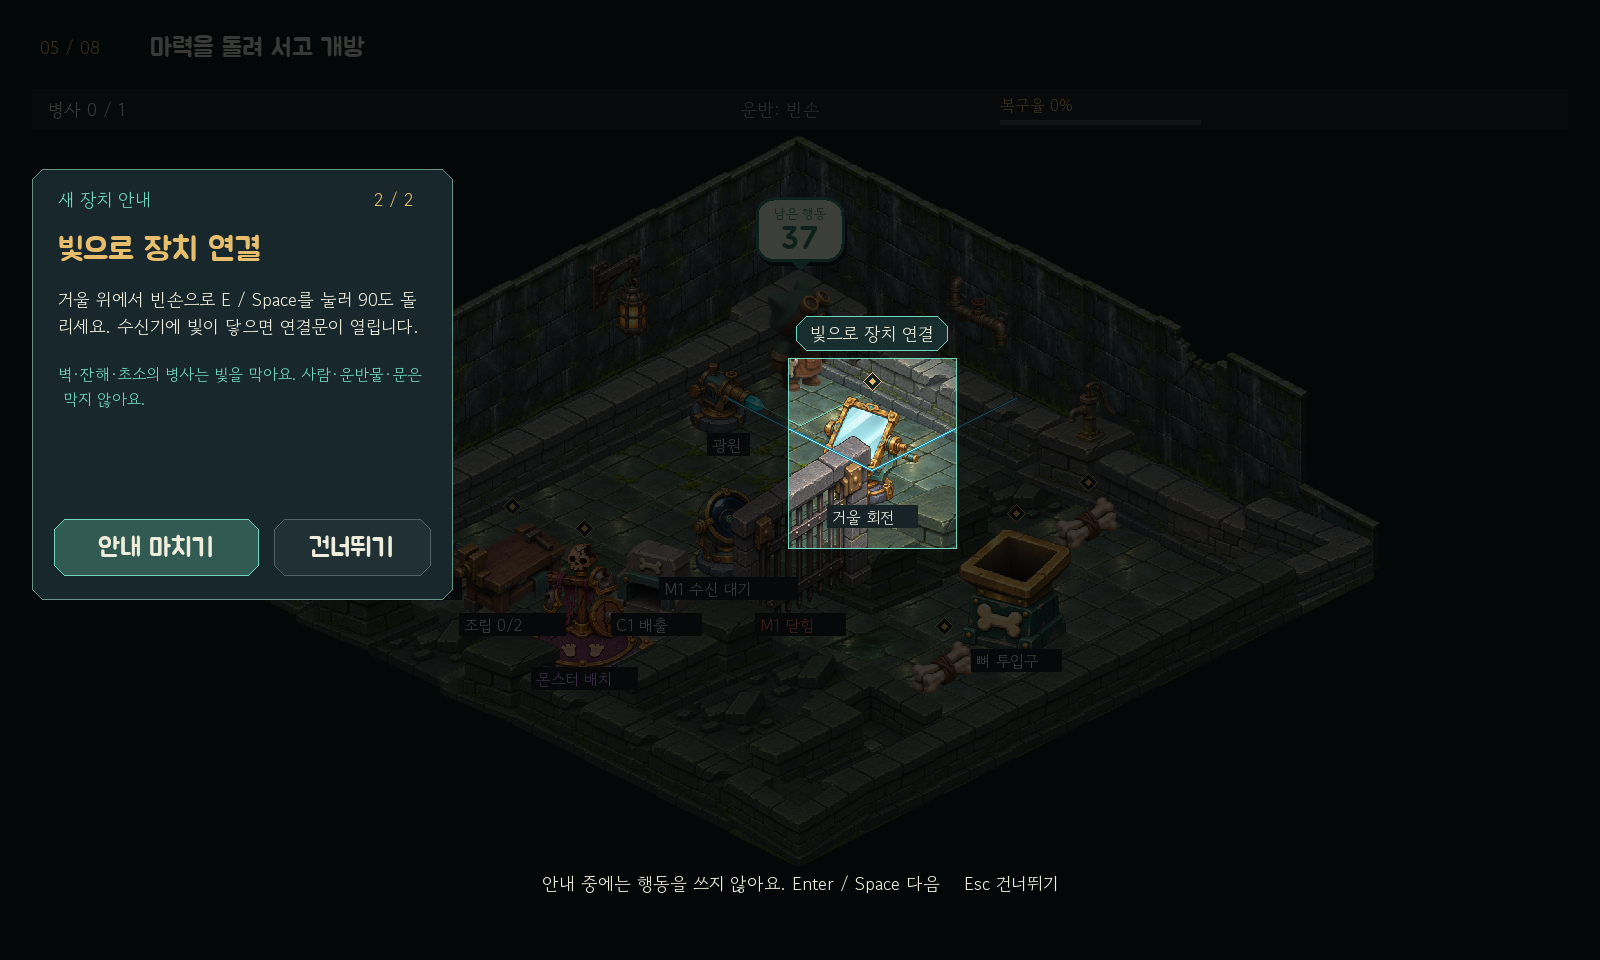
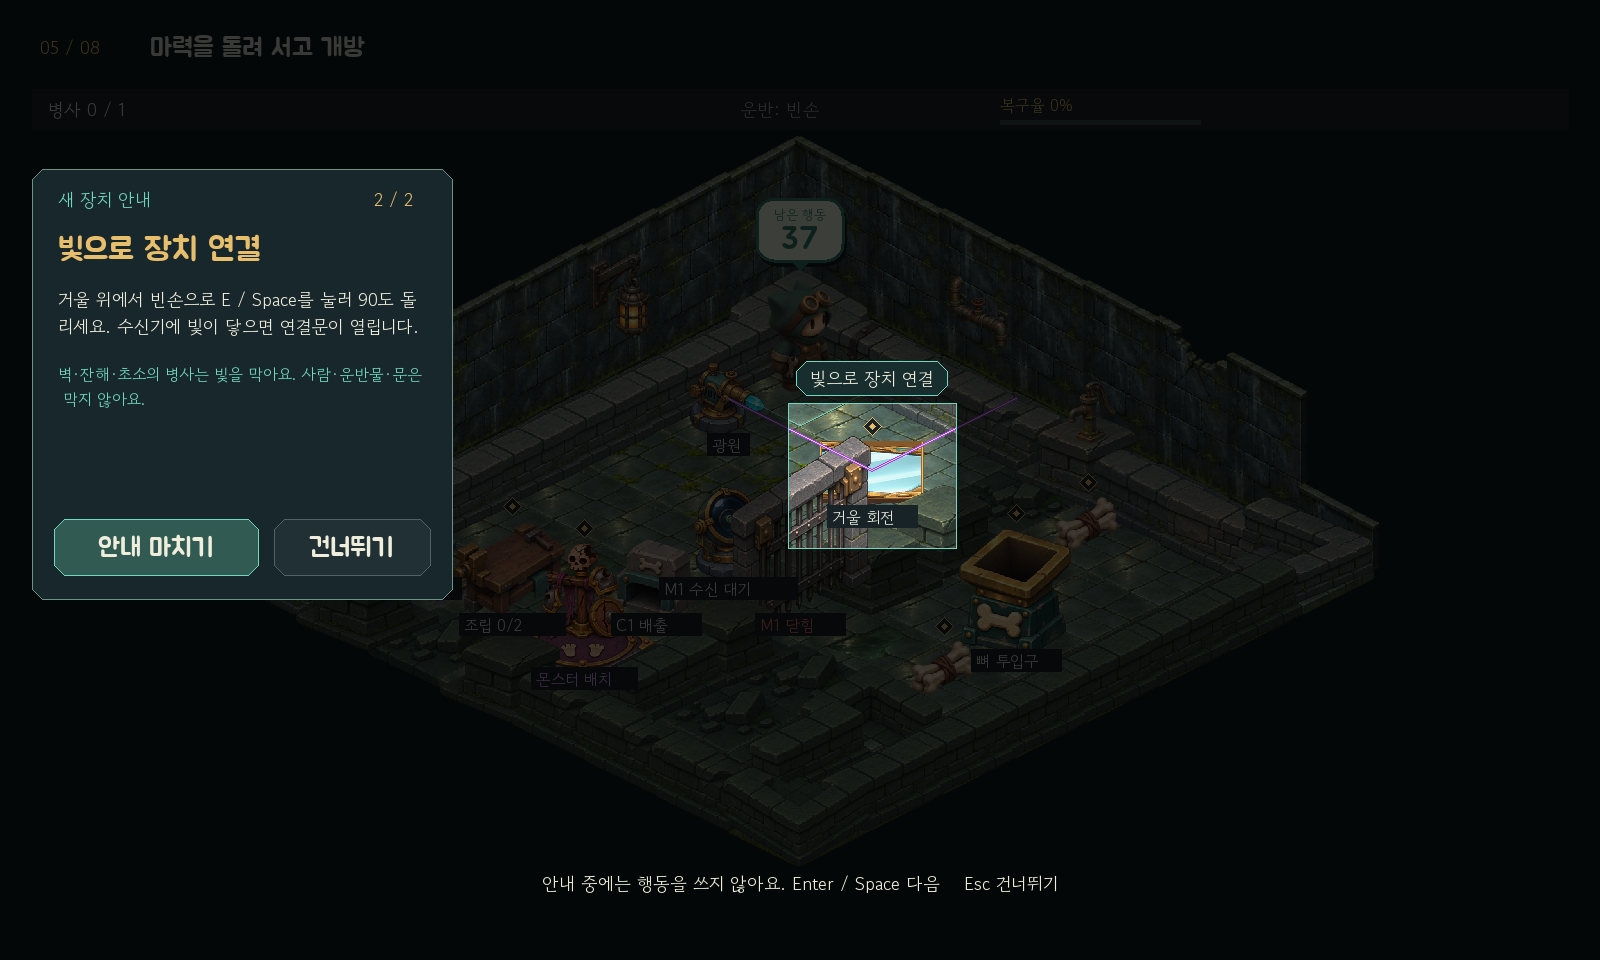
fix: 거울 표시 축과 광선 반사 지점을 일치시킴

Changed region(s): [[0.4688, 0.3125, 0.625, 0.5312]]

diff --git a/game/art.py b/game/art.py
@@ -6,12 +6,15 @@ from math import floor
 from pathlib import Path
 
 import pico2d.pico2d as p
+from game.mechanics import mirror_axis
 
 
 ART_ROOT = Path(__file__).resolve().parents[1] / "assets" / "art_v1"
 MAP_ROOT = ART_ROOT.parent / "map_pack_v1"
 WALL_ROOT = ART_ROOT.parent / "wall_pack_v1"
 GATE_ROOT = ART_ROOT.parent / "gate_pack_v1"
+MAGIC_BEAM_HEIGHT = 45
+MIRROR_BASE_TOP = 174
 
 
 class Art:
@@ -127,6 +130,14 @@ class Art:
         offset = (point[0] - sx) / scale
         x = floor(entry["anchor"]["x"] + (-offset if flip else offset))
         y = floor(entry["anchor"]["y"] - (point[1] - sy) / (scale * height_scale))
+        if name == "mirror":
+            left, bottom, right, top = self.mirror_panel(sx, sy, scale, flip)
+            if left <= point[0] <= right and bottom - 6 * scale <= point[1] <= top:
+                return True
+            # 받침대는 회전하지 않는다. 잘라낸 옛 거울판은 클릭을 가로채지 않는다.
+            x = floor(entry["anchor"]["x"] + offset)
+            if y < MIRROR_BASE_TOP:
+                return False
         if not (0 <= x < entry["width"] and 0 <= y < entry["height"]):
             return False
         atlas = self.manifest["atlases"][entry["atlas"]]
@@ -139,6 +150,12 @@ class Art:
         """투명 여백을 제외한 표시 영역. 물체를 클릭하면 발이 놓인 칸을 고른다."""
         entry = self.manifest["sprites"][name]
         rect, anchor = entry["content_rect"], entry["anchor"]
+        if name == "mirror":
+            left, bottom, right, top = self.mirror_panel(sx, sy, scale, flip)
+            return (min(left, sx + (rect["left"] - anchor["x"]) * scale),
+                    min(bottom - 6 * scale, sy + (anchor["y"] - rect["top"] - rect["height"]) * scale),
+                    max(right, sx + (rect["left"] + rect["width"] - anchor["x"]) * scale),
+                    max(top, sy + (anchor["y"] - MIRROR_BASE_TOP) * scale))
         left = (rect["left"] - anchor["x"]) * scale
         right = left + rect["width"] * scale
         if flip:
@@ -242,9 +259,66 @@ class Art:
         return (197 <= x < 326 and top <= y < bottom - lift
                 and self.hit_test("gate_closed", sx, sy + lift * scale, scale, point, flip))
 
+    @staticmethod
+    def mirror_segment(sx, sy, scale, turned):
+        """거울의 실제 반사축을 2:1 등각 화면에 투영한다."""
+        tx, ty = mirror_axis(turned)
+        dx, dy = (tx - ty) * 112 * .36 * scale, -(tx + ty) * 56 * .36 * scale
+        cy = sy + MAGIC_BEAM_HEIGHT * scale
+        return (sx - dx, cy - dy), (sx + dx, cy + dy)
+
+    @classmethod
+    def mirror_panel(cls, sx, sy, scale, turned):
+        (ax, ay), (bx, by) = cls.mirror_segment(sx, sy, scale, turned)
+        # 세운 양면 거울의 높이와 옆면 두께. 회전한 면은 카메라에서 옆날로 보인다.
+        rx, ry = (6 * scale, 45 * scale) if turned else (0, 45 * scale)
+        return min(ax, bx) - rx, min(ay, by) - ry, max(ax, bx) + rx, max(ay, by) + ry
+
+    def draw_mirror(self, sx, sy, scale, turned=False):
+        """황동 받침대 위에 반사축과 일치하는 낮은 양면 거울판을 그린다."""
+        entry = self.manifest["sprites"]["mirror"]
+        anchor = entry["anchor"]
+        left, bottom, width, height = entry["clip_rect_pico2d"]
+        base_height = height - MIRROR_BASE_TOP
+        self.atlases[entry["atlas"]].clip_draw(
+            left, bottom, width, base_height,
+            sx + (width / 2 - anchor["x"]) * scale,
+            sy + (anchor["y"] - MIRROR_BASE_TOP - base_height / 2) * scale,
+            width * scale, base_height * scale)
+        left, bottom, right, top = self.mirror_panel(sx, sy, scale, turned)
+
+        p.draw_rectangle(left, bottom - 6 * scale, right, top - 6 * scale, 69, 46, 31, filled=True)
+        p.draw_rectangle(left, bottom, right, top, 133, 89, 44, filled=True)
+        # 원본의 황동 테두리·유리 면을 실제 투영 사각형에 매핑한다. PNG는 수정하지 않는다.
+        uv = ((163, 83), (170, 85), (141, 151), (134, 149)) if turned else (
+            (92, 49), (177, 75), (137, 159), (53, 135))
+        positions = ((left, top), (right, top), (right, bottom), (left, bottom))
+        atlas = self.manifest["atlases"][entry["atlas"]]
+        clip_x, clip_y, _, clip_height = entry["clip_rect_pico2d"]
+        texture_top = atlas["height"] - clip_y - clip_height
+        vertices = (p.SDL_Vertex * 4)()
+        for vertex, (x, y), (u, v) in zip(vertices, positions, uv):
+            vertex.position = p.SDL_FPoint(x, p.get_canvas_height() - 1 - y)
+            vertex.color = p.SDL_Color(255, 255, 255, 255)
+            vertex.tex_coord = p.SDL_FPoint((clip_x + u) / atlas["width"], (texture_top + v) / atlas["height"])
+        indices = (ctypes.c_int * 6)(0, 1, 2, 0, 2, 3)
+        if p.SDL_RenderGeometry(p.renderer, self.atlases[entry["atlas"]].texture, vertices, 4, indices, 6) < 0:
+            raise RuntimeError(f"거울 표시 실패: {p.SDL_GetError()}")
+        if not turned:
+            # 사선 원본의 둥근 테두리 바깥에 생기는 투명 여백을 황동 측면으로 마감한다.
+            for x in (left, right - 3 * scale):
+                p.draw_rectangle(x, bottom, x + 3 * scale, top, 154, 106, 51, filled=True)
+                p.draw_line(x + scale, bottom + scale, x + scale, top - scale, 232, 193, 116)
+
     def draw(self, name, sx, sy, scale, flip=False, anchor=None, height_scale=1.0):
         """PNG 좌상단 기준점을 pico2d의 위쪽 +y 화면 좌표로 변환한다."""
         entry = self.manifest["sprites"][name]
+        if name == "mirror":
+            if anchor is not None:
+                sx += (entry["anchor"]["x"] - anchor["x"]) * scale
+                sy += (anchor["y"] - entry["anchor"]["y"]) * scale
+            self.draw_mirror(sx, sy, scale, flip)
+            return
         width, height = entry["width"], entry["height"]
         anchor = entry["anchor"] if anchor is None else anchor
         if flip:

diff --git a/tests/smoke_mirror_alignment.py b/tests/smoke_mirror_alignment.py
@@ -1,0 +1,95 @@
+"""거울의 실제 표시 축·광선 접점·클릭을 양 방향과 네 입사 방향에서 검사한다."""
+import os
+os.environ['SDL_VIDEODRIVER'] = 'dummy'
+os.environ['SDL_AUDIODRIVER'] = 'dummy'
+os.environ['SDL_RENDER_DRIVER'] = 'software'
+from copy import deepcopy
+from dataclasses import replace
+from math import dist
+from pathlib import Path
+from unittest.mock import patch
+import pico2d.pico2d as p
+import game.view as display
+from game.art import MAGIC_BEAM_HEIGHT
+from game.levels import DIRECTIONS, load_levels
+from game.model import Game
+from game.mechanics import mirror_axis, trace_magic
+from game.navigation import IsoBoard
+from tests.solutions import SOLUTIONS
+from tests.smoke_gate_animation import save_frame
+from tests.smoke_placement import visible_item_pixel
+
+
+def main():
+    levels = load_levels()
+    level = replace(levels[4], id='mirror_alignment_probe', title='거울 방향 확인', hint='거울 면과 빛의 꺾임을 비교하세요.',
+                    action_limit=None, start=(1, 6), exit=(6, 6),
+                    walls=frozenset((x, y) for x in range(8) for y in range(8) if x in (0, 7) or y in (0, 7)),
+                    mirrors=frozenset({(3, 3)}), gates={}, chutes={}, traps=frozenset(),
+                    levers=frozenset(), benches=frozenset(), posts=frozenset(), initial_items={})
+    projection = IsoBoard(8, 8)
+    sx, sy = projection.screen((3, 3))
+    scale = projection.half_width * 2 / 224
+    center = sx, sy + MAGIC_BEAM_HEIGHT * scale
+    p.open_canvas(display.WIDTH, display.HEIGHT, sync=True)
+    view = None
+    try:
+        view = display.View()
+        for turned in (False, True):
+            for direction, incoming in DIRECTIONS.items():
+                tx, ty = mirror_axis(turned)
+                normal = -ty, tx
+                dot = sum(a * b for a, b in zip(incoming, normal))
+                outgoing = tuple(int(v - dot * n) for v, n in zip(incoming, normal))
+                source = tuple(3 - 2 * d for d in incoming)
+                receiver = tuple(3 + 2 * d for d in outgoing)
+                game = Game(replace(level, sources={source: direction}, receivers=frozenset({receiver}),
+                                    device_labels={receiver: '수신기'}))
+                if turned:
+                    game.state.turned_mirrors.add((3, 3))
+                before = deepcopy(game.state)
+                segments, powered = trace_magic(game.level, game.state)
+                assert powered == {receiver}
+                assert next(end for start, end in segments if start == (3, 3)) == tuple(3 + d for d in outgoing)
+
+                # 실제 표시한 면에 대한 반사 벡터와 게임의 출사 벡터를 비교한다.
+                a, b = view.art.mirror_segment(sx, sy, scale, turned)
+                assert dist(((a[0] + b[0]) / 2, (a[1] + b[1]) / 2), center) < 1e-8
+                nx, ny = -(b[1] - a[1]), b[0] - a[0]
+                ix, iy = incoming
+                vx, vy = (ix - iy) * projection.half_width, -(ix + iy) * projection.half_height
+                ratio = 2 * (vx * nx + vy * ny) / (nx * nx + ny * ny)
+                ox, oy = outgoing
+                expected = ((ox - oy) * projection.half_width, -(ox + oy) * projection.half_height)
+                assert dist((vx - ratio * nx, vy - ratio * ny), expected) < 1e-8
+                with patch('game.view.perf_counter', return_value=10), patch('game.view.line', wraps=display.line) as lines:
+                    view.draw(game, 0, 1)
+                beams = [call.args[:4] for call in lines.call_args_list if call.args[-1] == (244, 185, 255)]
+                assert any(dist(ray[2:], center) < 1e-8 for ray in beams)
+                assert any(dist(ray[:2], center) < 1e-8 for ray in beams)
+                assert view.pick_cell(game, *center) == (3, 3)
+                assert not view.art.hit_test('mirror', sx, sy, scale, (sx, sy + 140 * scale), turned)
+                assert game.state == before
+                if direction == 'right':
+                    save_frame(Path('docs/screenshots/mirror-alignment') / f'after-{int(turned)}.png')
+
+        for index in (4, 5, 7):
+            game = Game(levels[index])
+            for action in SOLUTIONS[game.level.id]:
+                assert game.act(action)
+                if trace_magic(game.level, game.state)[1]:
+                    break
+            with patch('game.view.perf_counter', return_value=1000):
+                view.draw(game, index, len(levels))
+            for mirror in game.level.mirrors:
+                visible_item_pixel(view, game, mirror, 'mirror')
+            save_frame(Path('docs/screenshots/compact-rooms') / f'stage-{index+1:02}-mirror.png')
+        print('Mirror alignment OK: 2 poses x 4 incoming directions, displayed reflection plane, center contact, click and no stale panel hit; rooms 5/6/8 captured.')
+    finally:
+        if view:
+            view.close()
+        p.close_canvas()
+
+
+if __name__ == '__main__':
+    main()

diff --git a/game/view.py b/game/view.py
@@ -8,7 +8,7 @@ from math import floor, sin, sqrt
 import pico2d.pico2d as p
 
 from game.model import Game
-from game.art import Art
+from game.art import Art, MAGIC_BEAM_HEIGHT
 from game.scenery import draw_scars, draw_tinted, floor_style, wall_style
 from game.navigation import ClickNavigator, IsoBoard, find_path
 from game.themes import boundary_walls, low_wall_sprite, scene_for, themed_floor
@@ -756,7 +756,7 @@ class View:
             x1,y1=screen(start); x2,y2=screen(end)
             edge, core = (157, 72, 216), (244, 185, 255)
             for offset,color in ((-1,edge),(0,core),(1,edge)):
-                line(x1,y1+45*scale+offset,x2,y2+45*scale+offset,color)
+                line(x1,y1+MAGIC_BEAM_HEIGHT*scale+offset,x2,y2+MAGIC_BEAM_HEIGHT*scale+offset,color)
         # 상태 문구를 바닥 아트와 함께 유지해 색이나 작은 그림에만 의존하지 않는다.
         for pos, label in labels:
             sx, sy = screen(pos)

diff --git a/game/mechanics.py b/game/mechanics.py
@@ -3,6 +3,11 @@
 from game.levels import DIRECTIONS
 
 
+def mirror_axis(turned):
+    """지도 좌표의 거울 면 방향. 반사 판정과 화면이 같은 축을 사용한다."""
+    return (1, 1) if turned else (1, -1)
+
+
 def trace_magic(level, state):
     """반사 광선의 선분과 작동 수신기. 순환 경로도 유한하게 끝낸다.
 
@@ -26,7 +31,9 @@ def trace_magic(level, state):
                 break
             if target in level.mirrors:
                 dx, dy = delta
-                delta = (dy, dx) if target in state.turned_mirrors else (-dy, -dx)
+                tx, ty = mirror_axis(target in state.turned_mirrors)
+                along = dx * tx + dy * ty
+                delta = along * tx - dx, along * ty - dy
             pos = target
     return segments, powered
 

diff --git a/game/device_catalog.py b/game/device_catalog.py
@@ -68,6 +68,11 @@ def catalog_buttons():
 
 
 def picture(view, name, x, y, width=160, height=126):
+    if name == "mirror":
+        left, bottom, right, top = view.art.bounds(name, 0, 0, 1)
+        scale = min(width / (right - left), height / (top - bottom))
+        view.art.draw(name, x - (left + right) * scale / 2, y - (bottom + top) * scale / 2, scale)
+        return
     entry = view.art.manifest["sprites"][name]
     rect = entry["content_rect"]
     scale = min(width / rect["width"], height / rect["height"])

diff --git a/assets/gimmicks_v1/README.md b/assets/gimmicks_v1/README.md
@@ -24,3 +24,8 @@
 ## 2026-11-13 수문 기믹 제거
 
 밸브·물·부교는 현재 게임의 규칙·방 배치·도감에서 제거했다. 원본과 프롬프트는 제작 기록으로 보존하며, 런타임에서 이 세 스프라이트를 배치하지 않는다. 거울·광원·수신기·잔해·인부·윈치의 여섯 스프라이트를 사용한다.
+
+
+## 2026-11-13 거울 표시 방향 보정
+
+거울은 원본 전체의 좌우 반전 대신 `Art.draw_mirror`로 표시한다. 원본의 아래쪽 황동 받침대와 거울 면·옆날의 질감을 재사용하고, 거울판을 반사 판정과 같은 지도 축에서 투영한다. 방향에 따라 정면 또는 얇은 옆날이 보인다. 광선 접점·클릭 범위·도감도 이 표시를 사용한다. 생성 원본, PNG 스프라이트와 아틀라스 파일은 수정하지 않는다.
